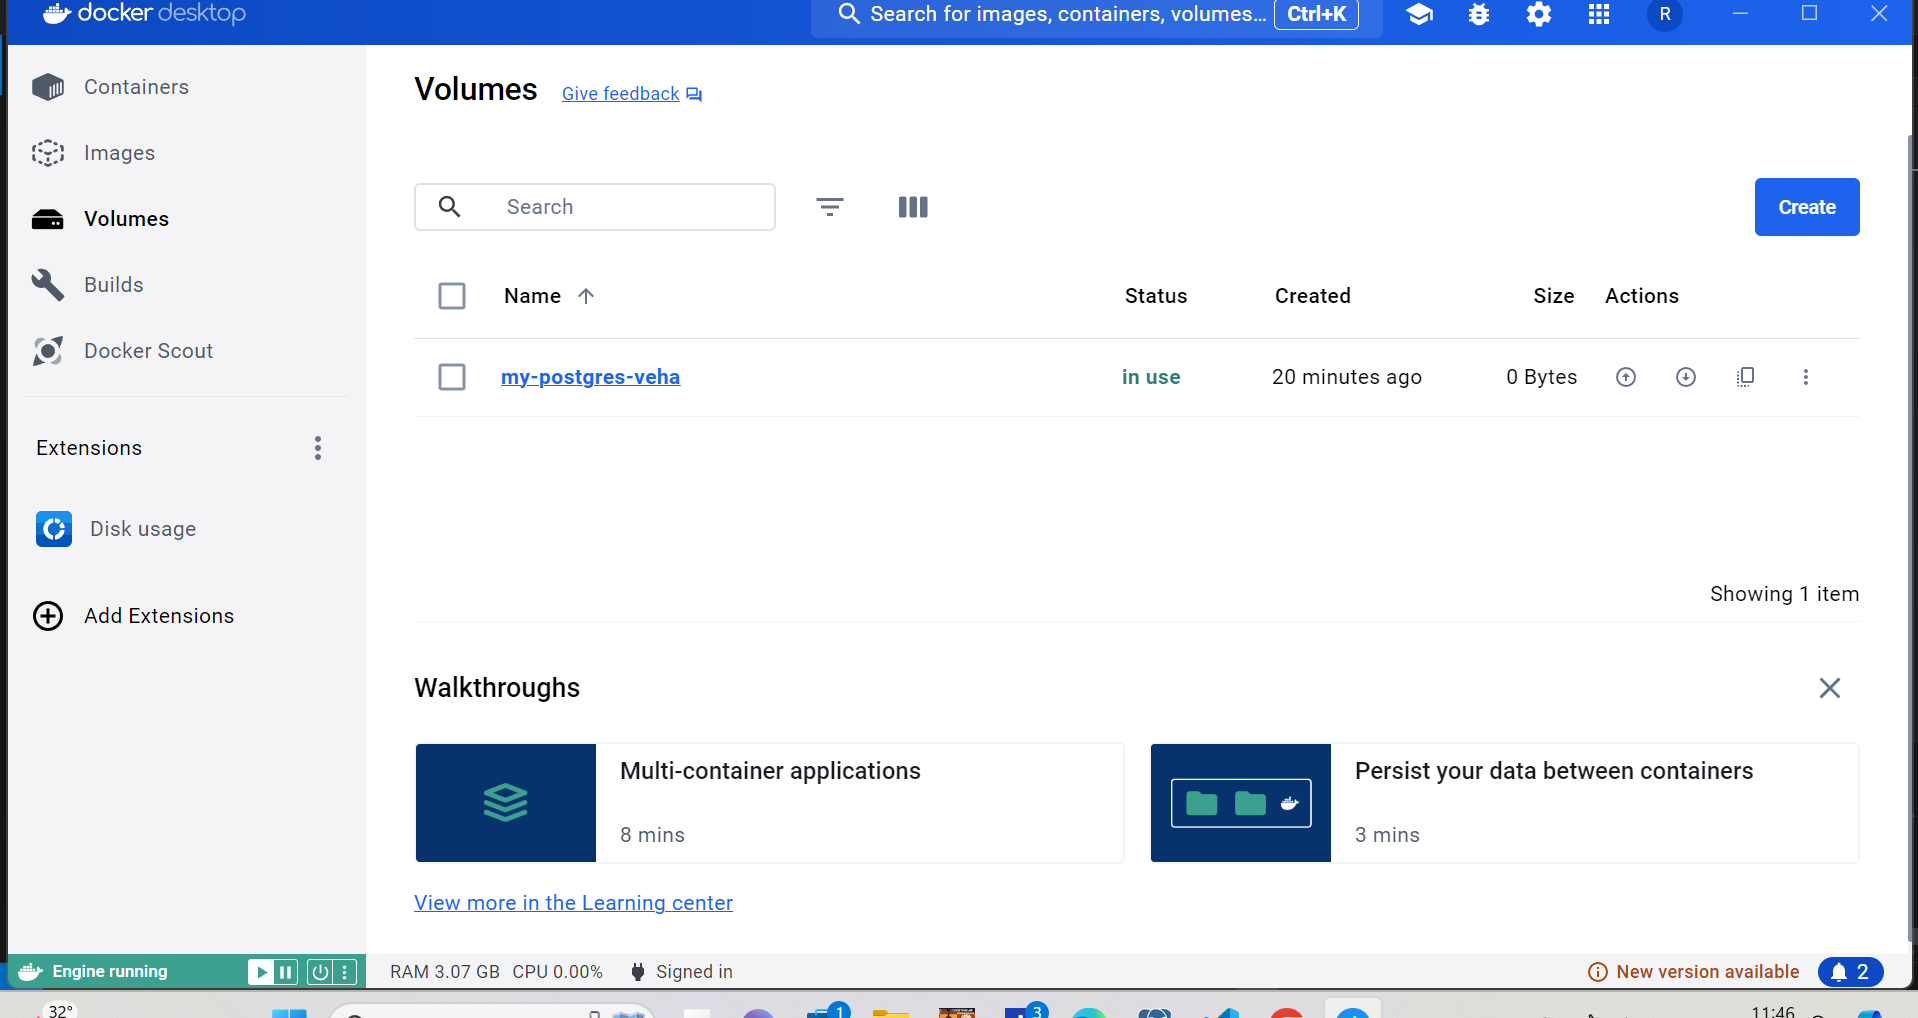
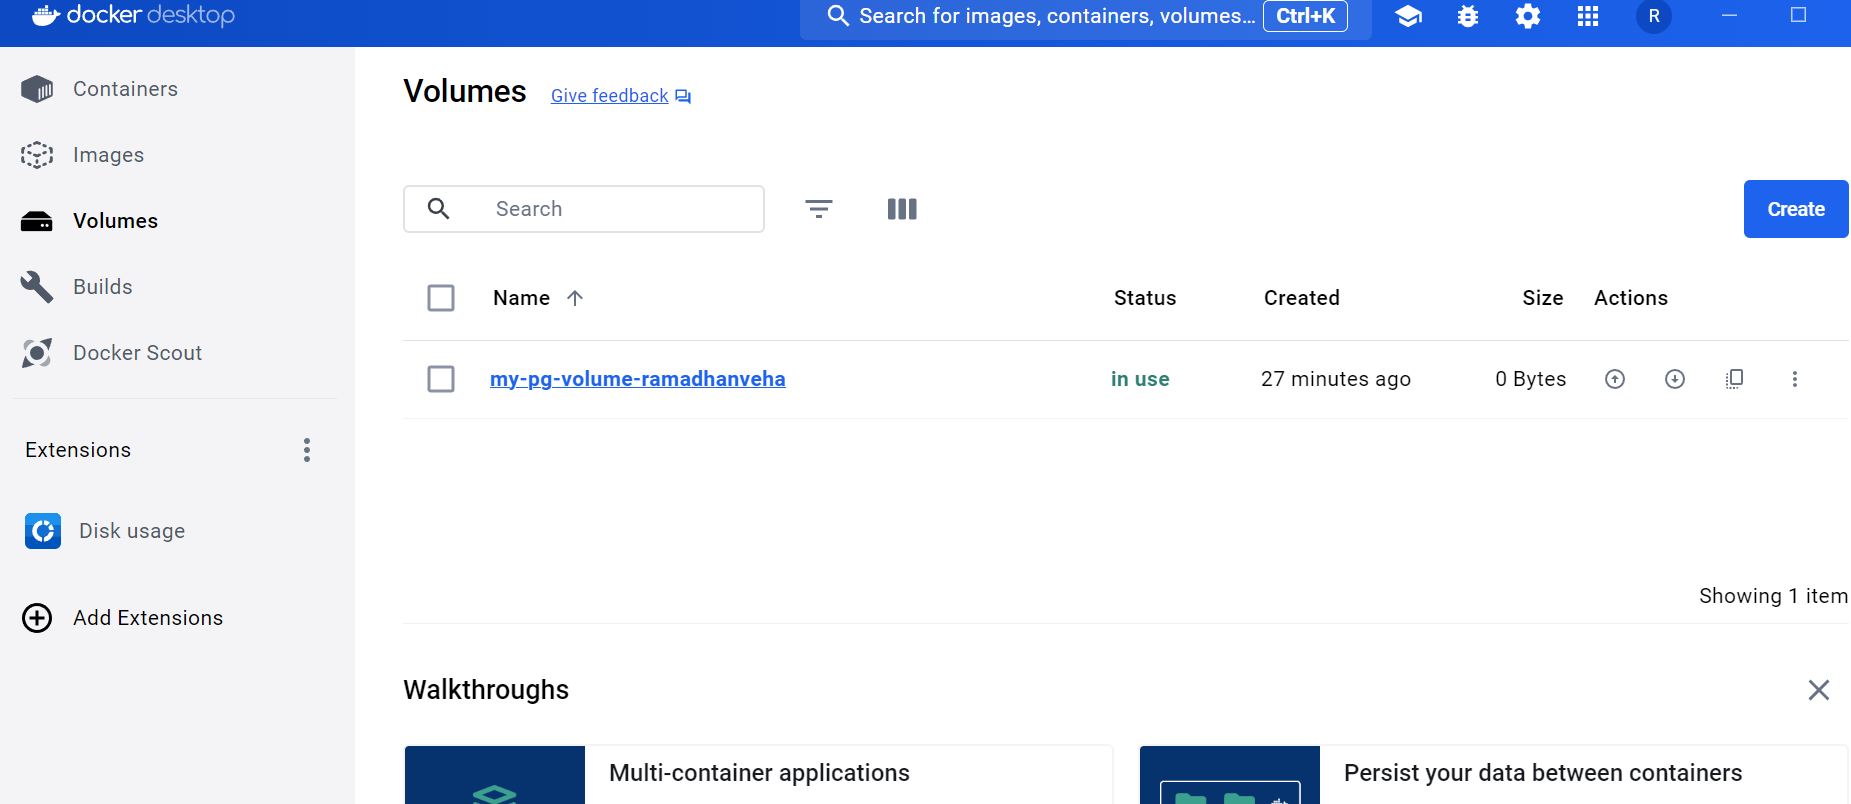
added screenshoot

diff --git a/my-container-volume/README.md b/my-container-volume/README.md
@@ -1,4 +1,28 @@
-docker run -d --name postgres -e POSTGRES_USER=postgres -e POSTGRES_PASSWORD=password -v my-postgres-veha:/var/lib/postgresql/data -p 5431:5432 postgres
+
+docker run -d --name my-postgres-ramadhanveha -e POSTGRES_USER=postgres -e POSTGRES_PASSWORD=password -v my-pg-volume-ramadhanveha:/var/lib/postgresql/data -p 5431:5432 postgres
+
+volume :
 
 ![alt text](image.png)
 
+container :
+
+![alt text](image-1.png)
+
+koneksi ke server baru :
+![alt text](image-2.png)
+
+membuat table baru :
+![alt text](image-3.png)
+
+membuat yang baru :
+docker run -d --name my-postgres-v2-ramadhanveha -e POSTGRES_USER=postgres -e POSTGRES_PASSWORD=password -v my-pg-volume-ramadhanveha:/var/lib/postgresql/data -p 5431:5432 postgres
+
+volume masih sama :
+![alt text](image-4.png)
+
+container :
+![alt text](image-5.png)
+
+table masih ada :
+![alt text](image-6.png)
